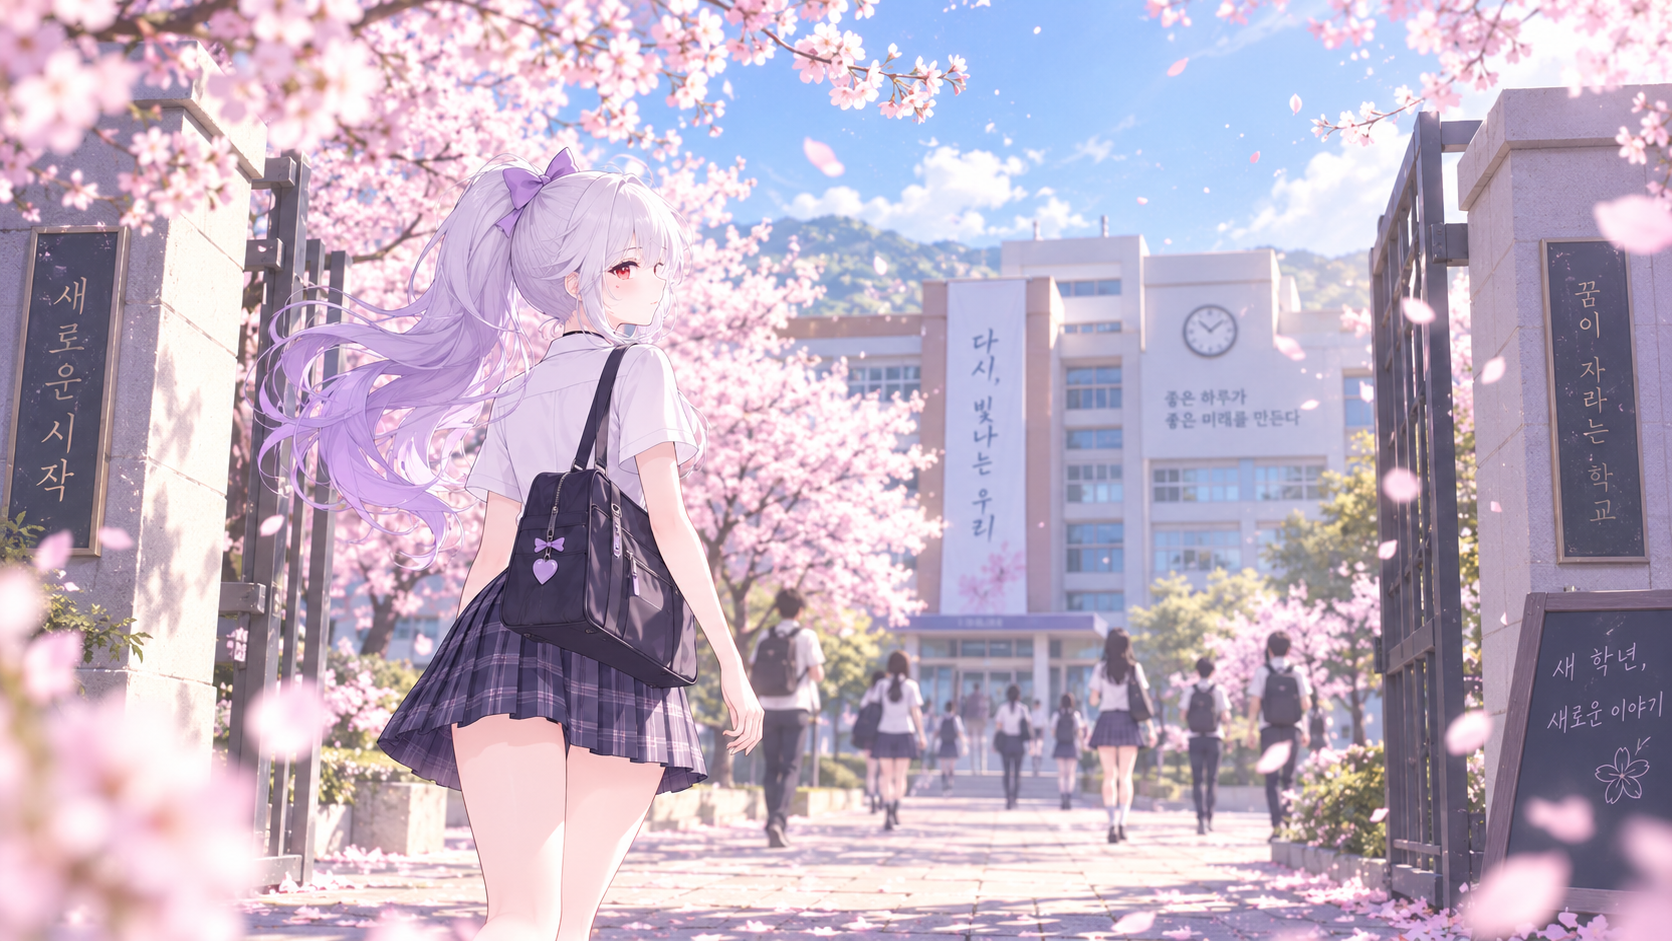
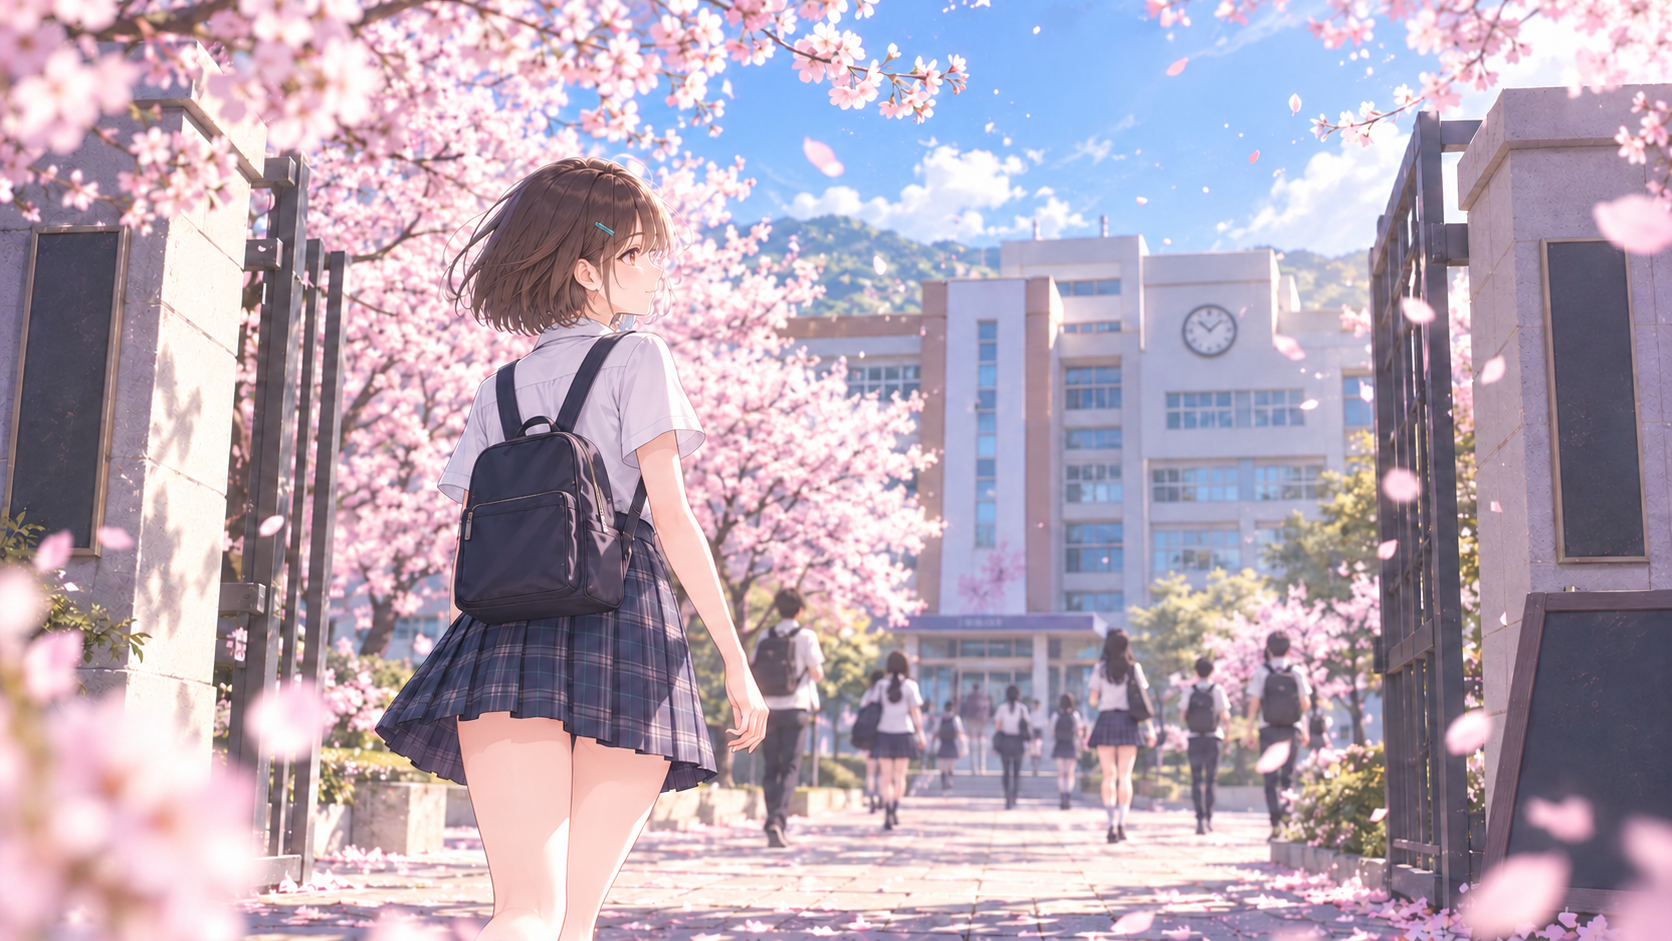
학년 전환 CG 원본 구도와 자세 반영

diff --git a/docs/illustration-replacement-prompts.md b/docs/illustration-replacement-prompts.md
@@ -239,7 +239,7 @@ CG는 공통 CG 블록과 파일별 장면 프롬프트를 이어 붙인다. 무
 | [cg-06.png](../assets/cg/cg-06.png) · CH06 가을 소풍 | 원본의 구도와 자세를 유지한다. 화면 왼쪽 전경 벤치에 온이유가 옆으로 앉아 한쪽 무릎을 세우고, 무릎 위에 비스듬히 놓인 스케치북에 연필로 단풍을 그린다. 상체를 살짝 앞으로 기울이고 시선은 그림에 둔다. 가방은 인물 왼쪽 벤치에 두며, 오른쪽 절반에는 낙엽 덮인 산책길과 난간이 붉고 노란 단풍나무 사이로 멀어지게 배치한다. 새 캐릭터 기준 외형과 교복을 적용하고 글자·로고는 넣지 않는다. |
 | [cg-07.png](../assets/cg/cg-07.png) · CH07 기말고사 | 원본의 구도와 자세를 유지한다. 긴 책상 앞 중앙 왼쪽에 앉은 온이유가 몸을 살짝 숙이고, 책상에 댄 한쪽 팔의 손으로 뺨을 받친 채 다른 손으로 펼친 문제집에 연필을 움직인다. 왼쪽 아래에는 쌓인 책, 오른쪽 아래에는 펼친 큰 교재를 둔다. 왼쪽 배경은 흐린 도서관 서가와 따뜻한 스탠드 조명, 오른쪽은 눈 덮인 나뭇가지가 보이는 큰 창으로 구성한다. 새 캐릭터 외형과 겨울 교복을 적용하고 안경·읽을 수 있는 글자·로고는 넣지 않는다. |
 | [cg-08.png](../assets/cg/cg-08.png) · CH08 첫눈 | 원본의 구도와 자세를 유지한다. 왼쪽 전경에 허리 위까지 보이는 온이유를 크게 배치하고, 몸은 오른쪽으로 살짝 틀며 한 손으로 가슴 앞 가방끈을 잡는다. 고개와 시선은 위쪽 오른편의 첫눈을 향한다. 왼쪽 끝에는 학교 입구와 글자 없는 표지판, 오른쪽 3분의 1에는 따뜻한 가로등을 두고 눈 덮인 길과 건물, 분홍빛 겨울 저녁 하늘을 배경으로 한다. 새 캐릭터 외형에 짙은 남색 코트와 연한 베이지 체크 목도리를 입히고 글자·로고는 넣지 않는다. |
-| [cg-09.png](../assets/cg/cg-09.png) · 1학년→2학년 전환 | 새 학년 첫날의 벚꽃 핀 교문, 온이유가 학교 안쪽으로 걸어가다 어깨 너머로 한 번 돌아본다. 넓은 학교와 오가는 학생들을 배경에 두고 다음 계절로 이어지는 전환 장면으로 구성한다. |
+| [cg-09.png](../assets/cg/cg-09.png) · 1학년→2학년 전환 | 원본의 구도와 자세를 유지한다. 온이유를 화면 왼쪽 전경에 허벅지 중간까지 보이게 두고, 몸은 학교 안쪽 중앙 소실점을 향해 걸어간다. 양쪽 어깨에 가방을 멘 채 한쪽 다리를 내딛고, 고개만 오른쪽 어깨 너머로 돌려 오른쪽을 향한 옆얼굴로 바라본다. 양옆의 높은 교문 기둥과 화면 위쪽을 덮은 벚꽃 가지, 중앙의 학교 건물·등교하는 학생들, 아래쪽으로 이어지는 길의 원근 배치를 그대로 살린다. 새 캐릭터 기준 외형과 교복을 적용하고 표지판과 학교 건물에는 읽을 수 있는 글자·로고를 넣지 않는다. |
 | [cg-10.png](../assets/cg/cg-10.png) · CH09 새로운 반 | 늦은 오후 학교 복도나 교정 길, 새 반에서 적응을 시작한 온이유가 노을빛을 받으며 잠시 뒤돌아본다. 익숙해지는 중인 표정과 새 친구들의 흐린 실루엣으로 변화의 기분을 전한다. |
 | [cg-11.png](../assets/cg/cg-11.png) · CH10 동아리 활동 | 방과 후 미술 동아리실, 온이유가 작업대 앞에 앉아 붓으로 작은 그림을 마무리한다. 주변의 물감과 종이, 캔버스가 보이고 스탠드 조명이 손과 그림에 모인다. |
 | [cg-12.png](../assets/cg/cg-12.png) · CH11 방학 계획 | 더운 여름날 교실 또는 미술실, 온이유가 책상에 앉아 접이식 부채로 더위를 식히며 물병과 스케치북을 곁에 둔다. 열린 창으로 들어오는 여름빛과 느긋한 방학 전 분위기. |
@@ -277,4 +277,4 @@ CG는 공통 CG 블록과 파일별 장면 프롬프트를 이어 붙인다. 무
 - 이미지 모델이 만든 문자·로고·워터마크는 제거하고, 필요한 문구는 별도로 편집한다.
 - 인물 외형 참조에는 승인된 공통 캐릭터 기준 이미지만 사용한다. 사용자가 특정 의상 참고 이미지를 제공한 경우에는 지정된 의상 형태만 참고하고 얼굴·머리·포즈·배경은 복사하지 않는다. 결과가 새 공통 캐릭터 기준과 다르면 해당 파일을 다시 생성한다.
 
-이 문서는 교체 대상의 프롬프트와 파일 대응표다. S·W·G·A·C1·P1·C13·P13·C16·P16·C24·P24·GR 스탠딩 세트와 타이틀 표지, cg-01~cg-08의 생성 및 파일 교체를 완료했으며, 나머지 CG는 한 장씩 진행한다.
+이 문서는 교체 대상의 프롬프트와 파일 대응표다. S·W·G·A·C1·P1·C13·P13·C16·P16·C24·P24·GR 스탠딩 세트와 타이틀 표지, cg-01~cg-09의 생성 및 파일 교체를 완료했으며, 나머지 CG는 한 장씩 진행한다.
